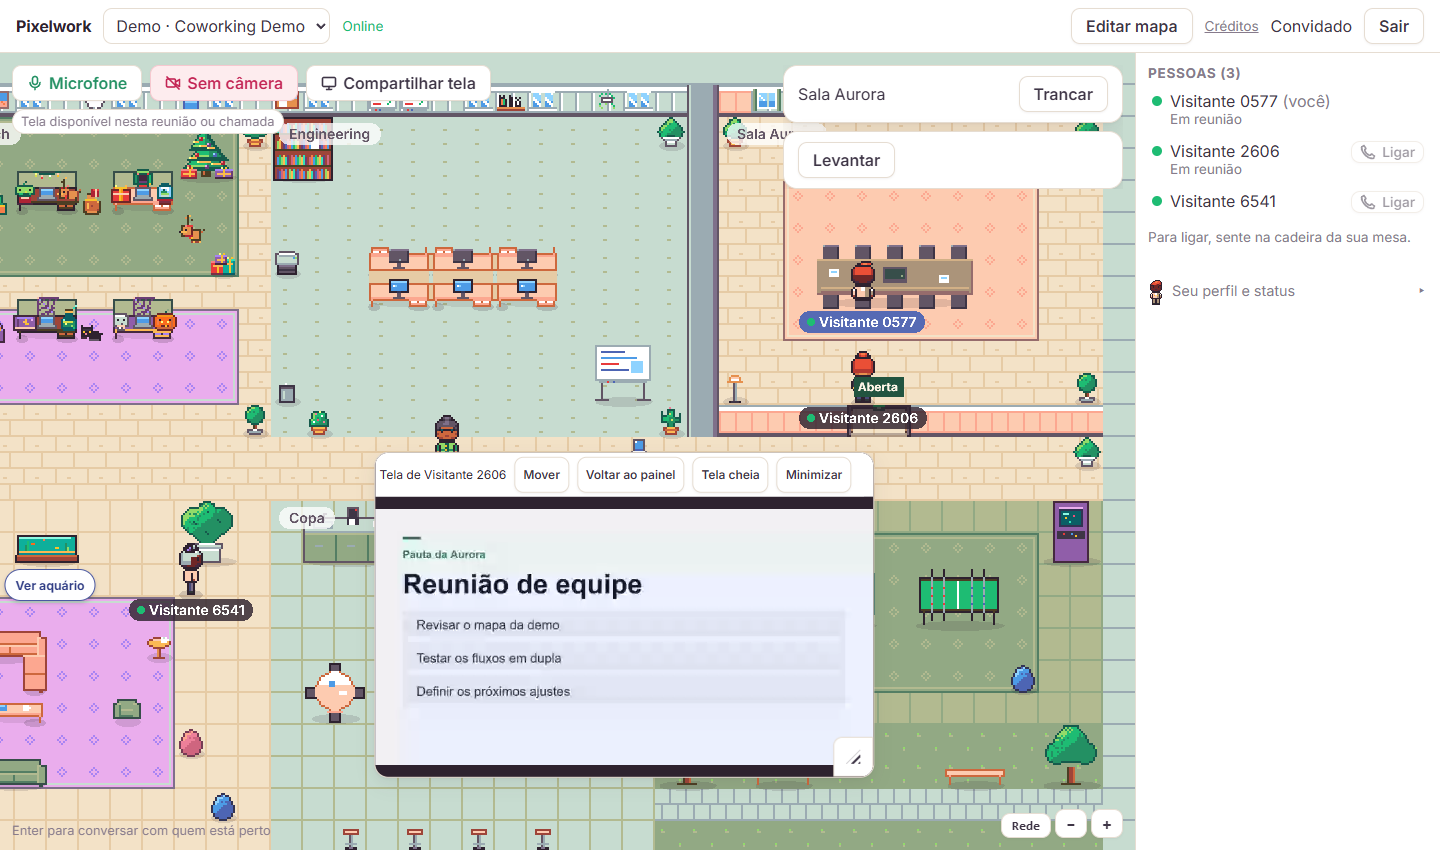
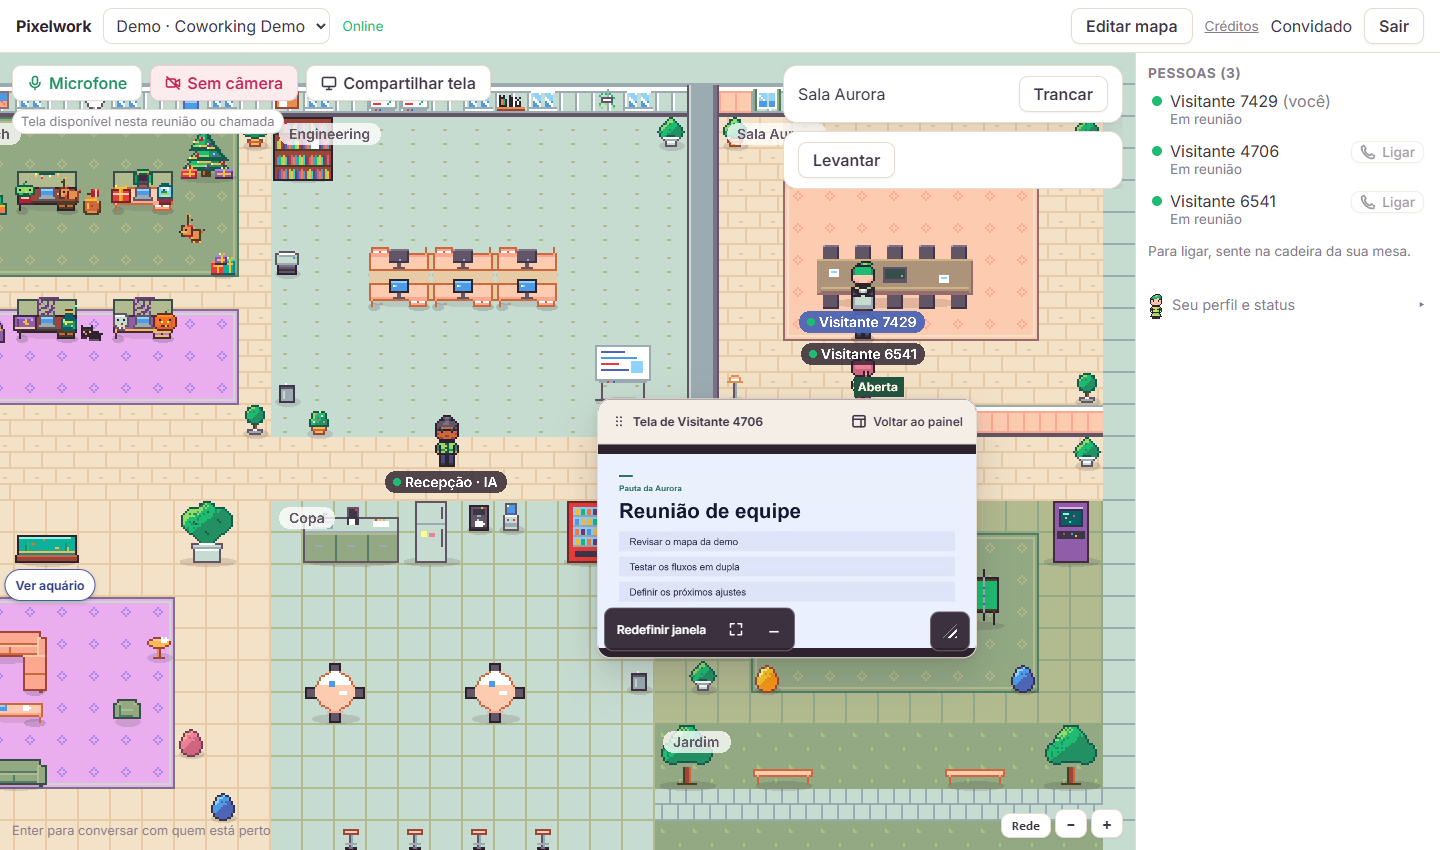
Melhora a interface de compartilhamento e atualiza o print da Aurora (#73)

diff --git a/packages/client/src/ui/RoomPanel.tsx b/packages/client/src/ui/RoomPanel.tsx
@@ -3,6 +3,7 @@ import { useEffect, useLayoutEffect, useRef, useState, type KeyboardEvent, type 
 import type { MediaManager } from '../media/media-manager.ts';
 import type { ClientWorld } from '../net/client-world.ts';
 import { useMedia } from './MediaControls.tsx';
+import { FullscreenIcon, GripIcon, MinimizeIcon, PanelIcon } from './icons.tsx';
 import { useWorld } from './useWorld.ts';
 
 const MOVE_WINDOW: Record<string, [number, number]> = {
@@ -84,6 +85,8 @@ export function RoomPanel({ media, world }: { media: MediaManager; world: Client
 
 function SharedScreen({ track, name }: { track: RemoteVideoTrack; name: string }) {
   const screenRef = useRef<HTMLElement>(null);
+  const floatingToggle = useRef<HTMLButtonElement>(null);
+  const restoreToggleFocus = useRef(false);
   const [fullscreen, setFullscreen] = useState(false);
   const [fullscreenError, setFullscreenError] = useState(false);
   const [mode, setMode] = useState<'panel' | 'minimized' | 'floating'>('panel');
@@ -94,6 +97,9 @@ function SharedScreen({ track, name }: { track: RemoteVideoTrack; name: string }
   const minimized = mode === 'minimized';
   const floating = mode === 'floating' && !fullscreen;
   const { x, y, width } = layout;
+  const title = name ? `Tela de ${name}` : 'Tela compartilhada';
+  const fullscreenLabel = fullscreen ? 'Sair da tela cheia' : 'Tela cheia';
+  const minimizeLabel = minimized ? 'Restaurar apresentação' : 'Minimizar';
 
   useEffect(() => {
     const syncFullscreen = () => setFullscreen(document.fullscreenElement === screenRef.current);
@@ -120,8 +126,15 @@ function SharedScreen({ track, name }: { track: RemoteVideoTrack; name: string }
     }
   }, [dragging, floating, layout]);
 
+  useLayoutEffect(() => {
+    if (!restoreToggleFocus.current) return;
+    restoreToggleFocus.current = false;
+    floatingToggle.current?.focus({ preventScroll: true });
+  }, [floating]);
+
   function toggleFloating() {
     if (!floating) setLayout(readFloatingLayout() ?? layout);
+    restoreToggleFocus.current = true;
     setMode(floating ? 'panel' : 'floating');
   }
 
@@ -241,38 +254,51 @@ function SharedScreen({ track, name }: { track: RemoteVideoTrack; name: string }
       )}
       <Video track={track} />
       <figcaption className="screen-controls">
-        <span>{name ? `Tela de ${name}` : 'Tela compartilhada'}</span>
-        {floating && (
-          <button
-            type="button"
-            className="screen-drag"
-            title="Arraste ou use as setas para mover a apresentação"
-            onPointerDown={startDrag}
-            onPointerMove={moveDrag}
-            onLostPointerCapture={endDrag}
-            onKeyDown={moveWithKeys}
-          >
-            Mover
-          </button>
+        {floating ? (
+          <>
+            <button
+              type="button"
+              className="screen-drag"
+              aria-label="Mover"
+              title="Arraste ou use as setas para mover a apresentação"
+              onPointerDown={startDrag}
+              onPointerMove={moveDrag}
+              onLostPointerCapture={endDrag}
+              onKeyDown={moveWithKeys}
+            >
+              <GripIcon />
+              <span className="screen-title">{title}</span>
+            </button>
+            <button ref={floatingToggle} type="button" className="screen-dock" onClick={toggleFloating}
+              aria-label="Voltar ao painel" title="Voltar ao painel">
+              <PanelIcon />
+              <span>Voltar ao painel</span>
+            </button>
+          </>
+        ) : (
+          <span className="screen-title">{title}</span>
         )}
-        {!minimized && !fullscreen && (
-          <button type="button" onClick={toggleFloating}>
-            {floating ? 'Voltar ao painel' : 'Flutuante'}
+        <div className="screen-actions">
+          {!minimized && !fullscreen && !floating && (
+            <button ref={floatingToggle} type="button" onClick={toggleFloating}>Flutuante</button>
+          )}
+          {floating && (
+            <button type="button" className="screen-reset" onClick={resetFloatingLayout}
+              aria-label="Redefinir janela" title="Voltar à posição e ao tamanho padrão">
+              <span>Redefinir janela</span>
+            </button>
+          )}
+          {!minimized && (
+            <button type="button" aria-label={fullscreenLabel} title={fullscreenLabel}
+              onClick={() => void toggleFullscreen()}>
+              {floating ? <FullscreenIcon /> : fullscreenLabel}
+            </button>
+          )}
+          <button type="button" aria-label={minimizeLabel} title={minimizeLabel} aria-expanded={!minimized}
+            onClick={() => void toggleMinimized()}>
+            {floating ? <MinimizeIcon /> : minimizeLabel}
           </button>
-        )}
-        {floating && (
-          <button type="button" onClick={resetFloatingLayout} title="Voltar à posição e ao tamanho padrão">
-            Redefinir janela
-          </button>
-        )}
-        {!minimized && (
-          <button type="button" onClick={() => void toggleFullscreen()}>
-            {fullscreen ? 'Sair da tela cheia' : 'Tela cheia'}
-          </button>
-        )}
-        <button type="button" aria-expanded={!minimized} onClick={() => void toggleMinimized()}>
-          {minimized ? 'Restaurar apresentação' : 'Minimizar'}
-        </button>
+        </div>
         {fullscreenError && <span role="status">Tela cheia indisponível no navegador.</span>}
       </figcaption>
     </figure>

diff --git a/packages/client/src/styles.css b/packages/client/src/styles.css
@@ -607,6 +607,17 @@ a.button {
   pointer-events: auto;
 }
 
+.screen-title {
+  font-weight: 650;
+}
+
+.screen-actions {
+  display: flex;
+  flex-wrap: wrap;
+  align-items: center;
+  gap: 4px;
+}
+
 .room-panel .screen[data-minimized='true'] {
   align-self: flex-start;
   max-width: 100%;
@@ -630,7 +641,7 @@ a.button {
   max-width: min(680px, 85%);
   max-height: 100%;
   pointer-events: auto;
-  box-shadow: var(--shadow);
+  box-shadow: var(--shadow-strong);
 }
 
 .room-panel .screen[data-floating='true'] video {
@@ -644,30 +655,99 @@ a.button {
   box-sizing: border-box;
   width: 100%;
   max-width: none;
+  flex-wrap: nowrap;
+  gap: 4px;
   border-radius: 0;
+  border-bottom: 1px solid var(--line);
+  background: var(--panel-2);
 }
 
 .screen-drag {
+  flex: 1;
+  min-width: 0;
+  justify-content: flex-start;
   cursor: grab;
   touch-action: none;
   user-select: none;
+}
+
+.screen-drag .screen-title {
+  overflow: hidden;
+  text-overflow: ellipsis;
+  white-space: nowrap;
+}
+
+.screen-drag svg,
+.screen-dock svg {
+  flex-shrink: 0;
+}
+
+.screen-controls .screen-drag,
+.screen-controls .screen-dock {
+  gap: 6px;
+  border-color: transparent;
+  box-shadow: none;
+  background: transparent;
+}
+
+.screen-controls .screen-drag:hover,
+.screen-controls .screen-dock:hover {
+  background: var(--accent-soft);
 }
 
 .screen-drag:active {
   cursor: grabbing;
 }
 
+.room-panel .screen[data-floating='true'] .screen-actions,
+.screen-resize {
+  background: rgb(46 34 47 / 92%);
+  color: var(--on-accent);
+  border: 1px solid rgb(255 255 255 / 28%);
+  border-radius: var(--radius-sm);
+}
+
+.room-panel .screen[data-floating='true'] .screen-actions {
+  position: absolute;
+  left: 6px;
+  bottom: 6px;
+  max-width: calc(100% - 58px);
+  flex-wrap: nowrap;
+  padding: 3px;
+}
+
+.room-panel .screen[data-floating='true'] .screen-actions button {
+  background: transparent;
+  border-color: transparent;
+  color: inherit;
+  box-shadow: none;
+}
+
+.screen-actions .screen-reset {
+  min-width: 0;
+}
+
+.screen-reset span {
+  overflow: hidden;
+  text-overflow: ellipsis;
+  white-space: nowrap;
+}
+
+.room-panel .screen[data-floating='true'] .screen-actions button:hover,
+.screen-resize:hover {
+  background: var(--accent);
+}
+
 .screen-resize {
   position: absolute;
-  right: 0;
-  bottom: 0;
+  right: 6px;
+  bottom: 6px;
   z-index: 1;
   display: grid;
   place-items: center;
   width: 40px;
   height: 40px;
   padding: 0;
-  border-radius: var(--radius-sm) 0 0 0;
   cursor: nwse-resize;
   touch-action: none;
   user-select: none;

diff --git a/packages/client/src/ui/icons.tsx b/packages/client/src/ui/icons.tsx
@@ -40,6 +40,39 @@ export function ScreenIcon() {
   );
 }
 
+export function GripIcon() {
+  return (
+    <svg {...strokeIconProps} strokeWidth={2}>
+      <path d="M6 4h.01M10 4h.01M6 8h.01M10 8h.01M6 12h.01M10 12h.01" />
+    </svg>
+  );
+}
+
+export function PanelIcon() {
+  return (
+    <svg {...strokeIconProps}>
+      <rect x="2" y="2.5" width="12" height="11" rx="1.5" />
+      <path d="M2 6h12M10 6v7.5" />
+    </svg>
+  );
+}
+
+export function FullscreenIcon() {
+  return (
+    <svg {...strokeIconProps}>
+      <path d="M2.5 6V2.5H6m4 0h3.5V6m0 4v3.5H10m-4 0H2.5V10" />
+    </svg>
+  );
+}
+
+export function MinimizeIcon() {
+  return (
+    <svg {...strokeIconProps}>
+      <path d="M4 10.5h8" />
+    </svg>
+  );
+}
+
 export function PhoneIcon() {
   return (
     <svg {...strokeIconProps}>

diff --git a/README.md b/README.md
@@ -38,9 +38,9 @@ Coworking virtual em pixel art 2D com voz e vídeo por proximidade, mapas person
 
 ### Compartilhamento de tela na Sala Aurora
 
-![Janela flutuante reaberta na Sala Aurora com o vídeo sobre o mapa, na posição e no tamanho ajustados anteriormente](docs/prints/compartilhamento-aurora.png)
+![Apresentação flutuante na Sala Aurora na posição e no tamanho padrão, com o vídeo sobre o mapa e o botão Redefinir janela visível](docs/prints/compartilhamento-aurora.png)
 
-Ao reabrir o modo flutuante após reiniciar o compartilhamento, a janela recuperou a posição e o tamanho salvos no navegador.
+Na captura, **Redefinir janela** restaurou a posição e o tamanho padrão sem interromper o vídeo.
 
 [Como compartilhar a tela](#compartilhar-a-tela)
 
@@ -124,9 +124,9 @@ Você pode compartilhar em pé. Só os participantes da reunião ou chamada veem
 #### Acompanhar uma apresentação em modo flutuante
 
 1. Ao receber uma apresentação na **Sala Aurora** ou em uma **chamada privada**, clique em **Flutuante** no rodapé do vídeo para acompanhar a apresentação e o mapa ao mesmo tempo.
-2. Segure **Mover** e arraste a janela pelo mapa com o mouse ou por toque. Pelo teclado, coloque o foco em **Mover** e use as setas.
+2. Arraste a barra de título, marcada com uma alça ao lado do nome de quem apresenta, com o mouse ou por toque. Pelo teclado, coloque o foco em **Mover** e use as setas.
 3. Arraste a alça no **canto inferior direito** para fora para ampliar a janela ou para dentro para reduzi-la. Pelo teclado, coloque o foco na alça **Redimensionar apresentação** e use as setas. O vídeo continua rodando durante o ajuste.
-4. Clique em **Voltar ao painel** para retomar a visualização normal da mesma apresentação.
+4. Clique em **Voltar ao painel**, na barra de título, para retomar a visualização normal da mesma apresentação.
 
 O Pixelwork salva a posição e o tamanho da janela no navegador. Depois de clicar em **Voltar ao painel**, selecione **Flutuante** novamente para recuperar o último ajuste. No mesmo navegador, ele também vale para novas apresentações na Sala Aurora ou em chamadas privadas, inclusive após recarregar a página.
 
